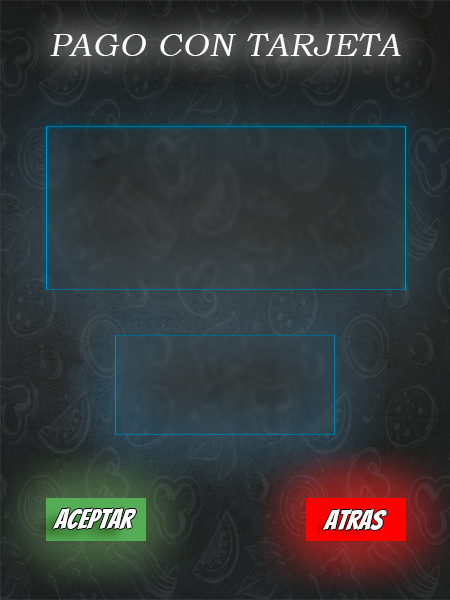
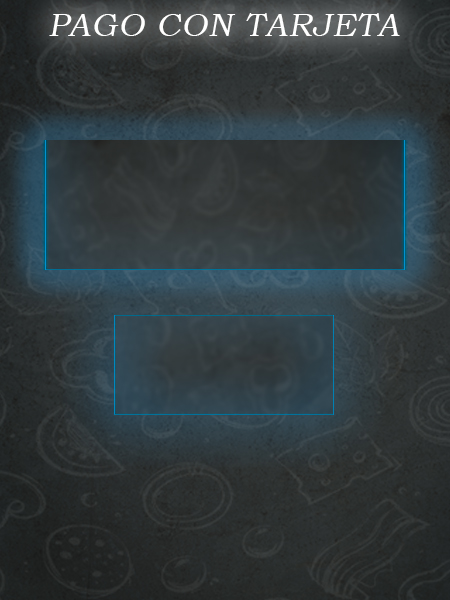
Cambio de jlabel por botones
Primera prueba del cambio de label por botones

diff --git a/PresentacionPago/src/main/java/presentacion/Tarjeta.java b/PresentacionPago/src/main/java/presentacion/Tarjeta.java
@@ -8,13 +8,14 @@ package presentacion;
  *
  * @author osval
  */
-public class Efectivo extends javax.swing.JFrame {
+public class Tarjeta extends javax.swing.JFrame {
 
     /**
-     * Creates new form Efectivo
+     * Creates new form Tarjeta
      */
-    public Efectivo() {
+    public Tarjeta() {
         initComponents();
+        transparenciaBtn();
         setLocationRelativeTo(null);
     }
 
@@ -28,9 +29,11 @@ public class Efectivo extends javax.swing.JFrame {
     private void initComponents() {
 
         BtnAtras = new javax.swing.JLabel();
-        Fondo = new javax.swing.JLabel();
+        BtnAceptar = new javax.swing.JButton();
+        jLabel1 = new javax.swing.JLabel();
 
         setDefaultCloseOperation(javax.swing.WindowConstants.EXIT_ON_CLOSE);
+        setUndecorated(true);
         setResizable(false);
         getContentPane().setLayout(new org.netbeans.lib.awtextra.AbsoluteLayout());
 
@@ -42,8 +45,11 @@ public class Efectivo extends javax.swing.JFrame {
         });
         getContentPane().add(BtnAtras, new org.netbeans.lib.awtextra.AbsoluteConstraints(310, 500, 90, 40));
 
-        Fondo.setIcon(new javax.swing.ImageIcon(getClass().getResource("/M/pago_EF.jpg"))); // NOI18N
-        getContentPane().add(Fondo, new org.netbeans.lib.awtextra.AbsoluteConstraints(0, 0, -1, -1));
+        BtnAceptar.setIcon(new javax.swing.ImageIcon(getClass().getResource("/M/AceptarBtn.png"))); // NOI18N
+        getContentPane().add(BtnAceptar, new org.netbeans.lib.awtextra.AbsoluteConstraints(20, 470, 180, 90));
+
+        jLabel1.setIcon(new javax.swing.ImageIcon(getClass().getResource("/M/pago_TAR.jpg"))); // NOI18N
+        getContentPane().add(jLabel1, new org.netbeans.lib.awtextra.AbsoluteConstraints(0, 0, -1, -1));
 
         pack();
     }// </editor-fold>//GEN-END:initComponents
@@ -52,9 +58,16 @@ public class Efectivo extends javax.swing.JFrame {
         dispose();
         new Pago().setVisible(true);
     }//GEN-LAST:event_BtnAtrasMouseClicked
+    public void transparenciaBtn(){
+        BtnAceptar.setOpaque(false);
+        BtnAceptar.setContentAreaFilled(false);
+        BtnAceptar.setBorderPainted(false);
+        
+    }
 
     // Variables declaration - do not modify//GEN-BEGIN:variables
+    private javax.swing.JButton BtnAceptar;
     private javax.swing.JLabel BtnAtras;
-    private javax.swing.JLabel Fondo;
+    private javax.swing.JLabel jLabel1;
     // End of variables declaration//GEN-END:variables
 }

diff --git a/PresentacionPago/src/main/java/presentacion/Pago.java b/PresentacionPago/src/main/java/presentacion/Pago.java
@@ -24,6 +24,7 @@ public class Pago extends javax.swing.JFrame {
     // <editor-fold defaultstate="collapsed" desc="Generated Code">//GEN-BEGIN:initComponents
     private void initComponents() {
 
+        BtnTarjeta = new javax.swing.JLabel();
         BtnAtras = new javax.swing.JLabel();
         BtnEfectivo = new javax.swing.JLabel();
         Fondo = new javax.swing.JLabel();
@@ -32,6 +33,14 @@ public class Pago extends javax.swing.JFrame {
         setUndecorated(true);
         setResizable(false);
         getContentPane().setLayout(new org.netbeans.lib.awtextra.AbsoluteLayout());
+
+        BtnTarjeta.setCursor(new java.awt.Cursor(java.awt.Cursor.HAND_CURSOR));
+        BtnTarjeta.addMouseListener(new java.awt.event.MouseAdapter() {
+            public void mouseClicked(java.awt.event.MouseEvent evt) {
+                BtnTarjetaMouseClicked(evt);
+            }
+        });
+        getContentPane().add(BtnTarjeta, new org.netbeans.lib.awtextra.AbsoluteConstraints(180, 500, 100, 50));
 
         BtnAtras.setCursor(new java.awt.Cursor(java.awt.Cursor.HAND_CURSOR));
         BtnAtras.addMouseListener(new java.awt.event.MouseAdapter() {
@@ -61,14 +70,20 @@ public class Pago extends javax.swing.JFrame {
     }//GEN-LAST:event_BtnAtrasMouseClicked
 
     private void BtnEfectivoMouseClicked(java.awt.event.MouseEvent evt) {//GEN-FIRST:event_BtnEfectivoMouseClicked
-    new Efectivo().setVisible(true);
-    dispose();
+        new Efectivo().setVisible(true);
+        dispose();
     }//GEN-LAST:event_BtnEfectivoMouseClicked
+
+    private void BtnTarjetaMouseClicked(java.awt.event.MouseEvent evt) {//GEN-FIRST:event_BtnTarjetaMouseClicked
+        new Tarjeta().setVisible(true);
+        dispose();
+    }//GEN-LAST:event_BtnTarjetaMouseClicked
 
 
     // Variables declaration - do not modify//GEN-BEGIN:variables
     private javax.swing.JLabel BtnAtras;
     private javax.swing.JLabel BtnEfectivo;
+    private javax.swing.JLabel BtnTarjeta;
     private javax.swing.JLabel Fondo;
     // End of variables declaration//GEN-END:variables
 }

diff --git a/PresentacionPago/src/main/java/MAIN/PresentacionPago.java b/PresentacionPago/src/main/java/MAIN/PresentacionPago.java
@@ -1,4 +1,6 @@
-package presentacion;
+package MAIN;
+
+import presentacion.Pago;
 
 /**
  *
